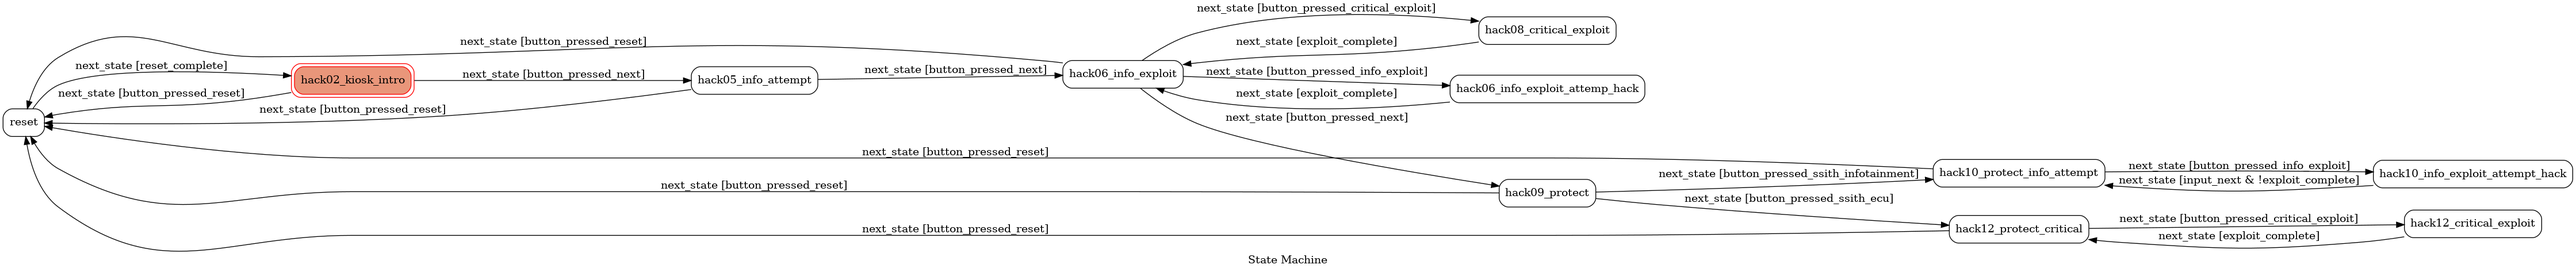
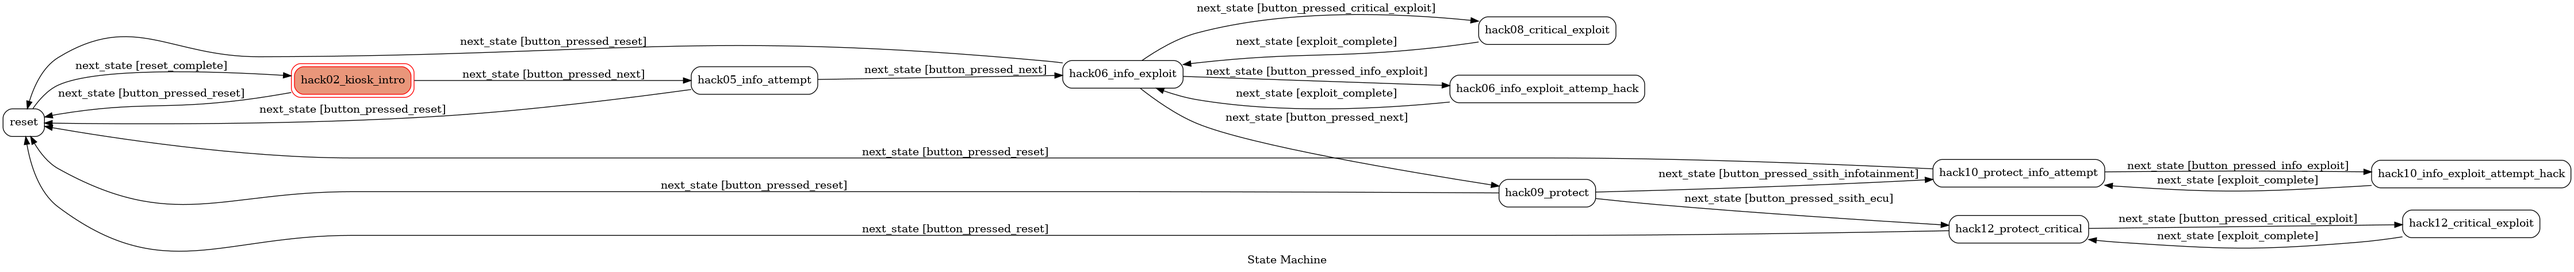
Partial fix

diff --git a/besspin/cyberPhys/ui/hacker-kiosk/src/components/Hack08_CriticalExploit.vue b/besspin/cyberPhys/ui/hacker-kiosk/src/components/Hack08_CriticalExploit.vue
@@ -22,7 +22,9 @@ TODO:
       <button :class="[!transDrive ? 'hack08-trans-btn-active' : '', 'hack08-trans-btn', 'img-btn']" @click="toggleTrans()">
       </button>
 
-      <button v-if="clickCount >= 1" @click="next()" class="hack08-next-btn img-btn"></button>
+      <!--button v-if="clickCount >= 1" @click="next()" class="hack08-next-btn img-btn"></button-->
+      <router-link v-if="clickCount >= 1" class="hack08-next-btn img-btn" to="/hack09_protect" tag="button">
+      </router-link>
   </div>
 </template>
 
@@ -129,11 +131,27 @@ TODO:
         acceleratorNormal: true,
         lkaOn: true,
         transDrive: true,
-        clickCount: 0
+        clickCount: 0,
+        poller: setInterval(() => { this.pollState() }, 500)
       }
     },
     mounted() {
-      // TODO: toggle buttons only when the hack is succesfull
+      ipc.on('zmq-results',(event, q) => {
+        q.forEach(item => {
+          if (item.func == 'critical_exploit' && item.status == 200) {
+            if(item.args == 'brakes') {
+              this.brakeECUOn = item.retval;
+            } else if (item.args == 'throttle') {
+              this.acceleratorNormal = item.retval;
+            } else if (item.args == 'lkas') {
+              this.lkaOn = item.retval;
+            } else if (item.args == 'transmission') {
+              this.transDrive = item.retval;
+            }
+          }
+        });
+      });
+      /*
       var video = document.querySelector("#videoElement");
       if (navigator.mediaDevices.getUserMedia) {
         navigator.mediaDevices.getUserMedia({ video: true })
@@ -144,42 +162,39 @@ TODO:
           console.log("Something went wrong!");
         });
       }
+      */
+
     },
     unmounted() {
       clearInterval(this.poller);
     },
     methods: {
       next() {
-        ipc.send('button-pressed', this.$options.name + '_next', []);
-        this.$router.push({ name: 'hack06_info_exploit' });    
+        ipc.send('button-pressed', 'next', []);
+        this.$router.push({ name: 'hack09_protect' });
       },
       pollState() {
         ipc.send('zmq-poll', []);
       },
       toggleBrakes() {
-        // TODO: toggle buttons only when the hack is succesfull
-        this.brakeECUOn = !this.brakeECUOn;
         this.clickCount++;
         console.log("[click] brakeECUOn = " + this.brakeECUOn);
-        ipc.send('button-pressed', this.$options.name + '_brakeECUOn', this.brakeECUOn);
+        ipc.send('button-pressed', 'critical_exploit', 'brakes');
       },
       toggleAccel() {
-        this.acceleratorNormal = !this.acceleratorNormal;
         this.clickCount++;
         console.log("[click] acceleratorNormal = " + this.acceleratorNormal);
-        ipc.send('button-pressed', this.$options.name + '_acceleratorNormal', this.acceleratorNormal);
+        ipc.send('button-pressed', 'critical_exploit', 'throttle');
       },
       toggleSteering() {
-        this.lkaOn = !this.lkaOn;
         this.clickCount++;
         console.log("[click] lkaOn = " + this.lkaOn);
-        ipc.send('button-pressed', this.$options.name + '_lkaOn', this.lkaOn);
+        ipc.send('button-pressed', 'critical_exploit', 'lkas');
       },
       toggleTrans() {
-        this.transDrive = !this.transDrive;
         this.clickCount++;
         console.log("[click] transDrive = " + this.transDrive);
-        ipc.send('button-pressed', this.$options.name + '_transDrive', this.transDrive);
+        ipc.send('button-pressed', 'critical_exploit', 'transmission');
       }
     }
   };

diff --git a/besspin/cyberPhys/ui/hacker-kiosk/src/components/Hack12_ProtectCritical.vue b/besspin/cyberPhys/ui/hacker-kiosk/src/components/Hack12_ProtectCritical.vue
@@ -9,6 +9,7 @@ TODO:
 <template>
   <div id="hack12">
       <!-- TODO: mirror behavior from Hack8_page so the buttons can change colors -->
+      <!--
       <router-link class="hack12-brake-btn img-btn" to="/hack13_protect_critical_stop" tag="button">
       </router-link>
 
@@ -19,6 +20,23 @@ TODO:
       </router-link>
 
       <router-link class="hack12-trans-btn img-btn" to="/hack13_protect_critical_stop" tag="button">
+      </router-link>
+      -->
+
+      <button :class="[!brakeECUOn ? 'hack08-brakes-btn-active' : '', 'hack12-brake-btn', 'img-btn']" @click="toggleBrakes()">
+      </button>
+
+      <button :class="[!acceleratorNormal ? 'hack08-accel-btn-active' : '', 'hack12-accel-btn', 'img-btn']" @click="toggleAccel()">
+      </button>
+
+      <button :class="[!lkaOn ? 'hack08-steer-btn-active' : '', 'hack12-steering-btn', 'img-btn']" @click="toggleSteering()">
+      </button>
+
+      <button :class="[!transDrive ? 'hack08-trans-btn-active' : '', 'hack12-trans-btn', 'img-btn']" @click="toggleTrans()">
+      </button>
+
+      <!--button v-if="clickCount >= 1" @click="next()" class="hack08-next-btn img-btn"></button-->
+      <router-link v-if="clickCount >= 1" class="hack08-next-btn img-btn" to="/hack13_protect_critical_stop" tag="button">
       </router-link>
 
 
@@ -96,18 +114,63 @@ TODO:
 
 
 <script>
+  const electron = require('electron')
+  const ipc = electron.ipcRenderer;
+
   export default {
     name: 'Hack12_ProtectCritical',
     props: {
     },
     data() {
       return {
-        messages: []
+        brakeECUOn: true,
+        acceleratorNormal: true,
+        lkaOn: true,
+        transDrive: true,
+        poller: setInterval(() => { this.pollState() }, 500)
       }
     },
     mounted() {
+       ipc.on('zmq-results',(event, q) => {
+        q.forEach(item => {
+          if (item.func == 'critical_exploit' && item.status == 200) {
+            if(item.args == 'brakes') {
+              this.brakeECUOn = item.retval;
+            } else if (item.args == 'throttle') {
+              this.acceleratorNormal = item.retval;
+            } else if (item.args == 'lkas') {
+              this.lkaOn = item.retval;
+            } else if (item.args == 'transmission') {
+              this.transDrive = item.retval;
+            }
+          }
+        });
+      });
     },
     methods: {
+      pollState() {
+        ipc.send('zmq-poll', []);
+      },
+      toggleBrakes() {
+        this.clickCount++;
+        console.log("[click] brakeECUOn = " + this.brakeECUOn);
+        ipc.send('button-pressed', 'critical_exploit', 'brakes');
+      },
+      toggleAccel() {
+        this.clickCount++;
+        console.log("[click] acceleratorNormal = " + this.acceleratorNormal);
+        ipc.send('button-pressed', 'critical_exploit', 'throttle');
+      },
+      toggleSteering() {
+        this.clickCount++;
+        console.log("[click] lkaOn = " + this.lkaOn);
+        ipc.send('button-pressed', 'critical_exploit', 'lkas');
+      },
+      toggleTrans() {
+        this.clickCount++;
+        console.log("[click] transDrive = " + this.transDrive);
+        ipc.send('button-pressed', 'critical_exploit', 'transmission');
+      }
     }
   };
 </script>

diff --git a/besspin/cyberPhys/ui/hacker-kiosk/src/components/Hack10_ProtectInfoAttempt.vue b/besspin/cyberPhys/ui/hacker-kiosk/src/components/Hack10_ProtectInfoAttempt.vue
@@ -169,15 +169,16 @@ TODO:
     mounted() {
       ipc.on('zmq-results',(event, q) => {
         q.forEach(item => {
-          // TODO: how to show a hack failure? `status` != 200? Or in `retval`?
-          if(item.func == this.$options.name + '_changeStation' && item.status == 200) {
-            this.stationMessage = "Station set to " + item.retval;
-          } else if (item.func == this.$options.name + '_volumeUp' && item.status == 200) {
-            this.volumeMessage = item.retval;
-          } else if (item.func == this.$options.name + '_volumeDown' && item.status == 200) {
-            this.volumeMessage = item.retval;
-          } else if (item.func == this.$options.name + '_exfil') {
-            this.exfilMessage = item.retval.toString();
+          if (item.func == 'info_exploit' && item.status == 200) {
+            if(item.args == 'changeStation') {
+              this.stationMessage = "Station set to " + item.retval;
+            } else if (item.args == 'volumeUp') {
+              this.volumeMessage = item.retval;
+            } else if (item.args == 'volumeDown') {
+              this.volumeMessage = item.retval;
+            } else if (item.args == 'exfil') {
+              this.exfilMessage = item.retval.toString();
+            }
           }
         });
       });
@@ -186,28 +187,32 @@ TODO:
       clearInterval(this.poller);
     },
     methods: {
-      pollState() {
+pollState() {
         ipc.send('zmq-poll', []);
       },
       exfil() {
         console.log("[click] data Exfil");
         this.clickCount++;
-        ipc.send('button-pressed', this.$options.name + '_exfil', {});
+        ipc.send('button-pressed', 'info_exploit', 'exfil');
       },
       changeStation(which) {
         console.log("[click] change to station ", which)
         this.clickCount++;
-        ipc.send('button-pressed', this.$options.name + '_changeStation', which);
+        ipc.send('button-pressed', 'info_exploit', 'changeStation_' + which);
       },
       volumeUp() {
         console.log("[click] volumeUp")
         this.clickCount++;
-        ipc.send('button-pressed', this.$options.name + '_volumeUp',{});
+        ipc.send('button-pressed', 'info_exploit','volumeUp');
       },
       volumeDown() {
         console.log("[click] volumeDown");
         this.clickCount++;
-        ipc.send('button-pressed', this.$options.name + '_volumeDown',{});
+        ipc.send('button-pressed', 'info_exploit','volumeDown');
+      },
+      next() {
+        ipc.send('button-pressed', 'next', {});
+        this.$router.push({ name: 'hack07_critical_attempt' });
       }
     }
   };

diff --git a/besspin/cyberPhys/ui/hacker-kiosk/src/components/Hack06_InfoExploit.vue b/besspin/cyberPhys/ui/hacker-kiosk/src/components/Hack06_InfoExploit.vue
@@ -29,7 +29,6 @@ TODO:
 
       <router-link v-if="clickCount >= 1" class="hack06-next-btn img-btn" to="/hack07_critical_attempt" tag="button">
       </router-link>
-
   </div>
 </template>
 
@@ -177,14 +176,16 @@ TODO:
     mounted() {
       ipc.on('zmq-results',(event, q) => {
         q.forEach(item => {
-          if(item.func == this.$options.name + '_changeStation' && item.status == 200) {
-            this.stationMessage = "Station set to " + item.retval;
-          } else if (item.func == this.$options.name + '_volumeUp' && item.status == 200) {
-            this.volumeMessage = item.retval;
-          } else if (item.func == this.$options.name + '_volumeDown' && item.status == 200) {
-            this.volumeMessage = item.retval;
-          } else if (item.func == this.$options.name + '_exfil') {
-            this.exfilMessage = item.retval.toString();
+          if (item.func == 'info_exploit' && item.status == 200) {
+            if(item.args == 'changeStation') {
+              this.stationMessage = "Station set to " + item.retval;
+            } else if (item.args == 'volumeUp') {
+              this.volumeMessage = item.retval;
+            } else if (item.args == 'volumeDown') {
+              this.volumeMessage = item.retval;
+            } else if (item.args == 'exfil') {
+              this.exfilMessage = item.retval;
+            }
           }
         });
       });
@@ -199,22 +200,22 @@ TODO:
       exfil() {
         console.log("[click] data Exfil");
         this.clickCount++;
-        ipc.send('button-pressed', this.$options.name + '_exfil', {});
+        ipc.send('button-pressed', 'info_exploit', 'exfil');
       },
       changeStation(which) {
         console.log("[click] change to station ", which)
         this.clickCount++;
-        ipc.send('button-pressed', this.$options.name + '_changeStation', which);
+        ipc.send('button-pressed', 'info_exploit', 'changeStation_' + which);
       },
       volumeUp() {
         console.log("[click] volumeUp")
         this.clickCount++;
-        ipc.send('button-pressed', this.$options.name + '_volumeUp',{});
+        ipc.send('button-pressed', 'info_exploit','volumeUp');
       },
       volumeDown() {
         console.log("[click] volumeDown");
         this.clickCount++;
-        ipc.send('button-pressed', this.$options.name + '_volumeDown',{});
+        ipc.send('button-pressed', 'info_exploit','volumeDown');
       }
     }
   };

diff --git a/besspin/cyberPhys/ui/hacker-kiosk/src/components/Hack09_Protect.vue b/besspin/cyberPhys/ui/hacker-kiosk/src/components/Hack09_Protect.vue
@@ -58,22 +58,23 @@ ToDO:
     name: 'Hack09_Protect',
     props: {
     },
-    protectCrit() {
-      ipc.send('button-pressed', this.$options.name + '_protect_critical', []);
-      this.$router.push({ name: 'hack12_protect_critical' });    
-    },
-    protectInfo() {
-      ipc.send('button-pressed', this.$options.name + '_protect_info', []);
-      this.$router.push({ name: 'hack10_protect_info_attempt' });    
-    },
     data() {
       return {
-        messages: []
+        messages: [],
+        poller: setInterval(() => { this.pollState() }, 500)
       }
     },
     mounted() {
     },
     methods: {
+    protectCrit() {
+      ipc.send('button-pressed', 'ssith_ecu', []);
+      this.$router.push({ name: 'hack12_protect_critical' });
+    },
+    protectInfo() {
+      ipc.send('button-pressed', 'ssith_infotainment', []);
+      this.$router.push({ name: 'hack10_protect_info_attempt' });
+    },
     }
   };
 </script>

diff --git a/besspin/cyberPhys/ui/hacker-kiosk/src/components/Hack05_InfoAttempt.vue b/besspin/cyberPhys/ui/hacker-kiosk/src/components/Hack05_InfoAttempt.vue
@@ -54,7 +54,7 @@
       ipc.on('zmq-results',(event, q) => {
         q.forEach(item => {
           console.log("item", item);
-          if(item.func == this.$options.name && item.status == 200) {
+          if(item.func == 'next' && item.status == 200) {
             vm.$router.push({ name: 'hack06_info_exploit' });
           }
         });
@@ -69,7 +69,7 @@
         ipc.send('zmq-poll', []);
       },
       hackInfotainment() {
-        ipc.send('button-pressed', this.$options.name, {});
+        ipc.send('button-pressed', 'next', {});
         console.log('button-pressed', this.$options.name,{});
       }
     }

diff --git a/besspin/cyberPhys/ui/hacker-kiosk/src/components/Hack04_Access.vue b/besspin/cyberPhys/ui/hacker-kiosk/src/components/Hack04_Access.vue
@@ -52,7 +52,7 @@ TODO:
     },
     methods: {
       next() {
-        ipc.send('button-pressed', this.$options.name, {});
+        ipc.send('button-pressed', 'next', {});
         this.$router.push({ name: 'hack05_info_attempt' });
       }
     }

diff --git a/besspin/cyberPhys/cyberphyslib/cyberphyslib/kiosk/director.py b/besspin/cyberPhys/cyberphyslib/cyberphyslib/kiosk/director.py
@@ -62,7 +62,7 @@ class HackerKiosk:
         {'transition': ('hack06_info_exploit', 'hack09_protect'), 'conditions': 'button_pressed_next'},
         {'transition': ('hack09_protect', 'hack10_protect_info_attempt'), 'conditions': 'button_pressed_ssith_infotainment'},
         {'transition': ('hack10_protect_info_attempt', 'hack10_info_exploit_attempt_hack'), 'conditions': 'button_pressed_info_exploit'},
-        {'transition': ('hack10_info_exploit_attempt_hack', 'hack10_protect_info_attempt'), 'conditions': 'input_next', 'unless': 'exploit_complete'},
+        {'transition': ('hack10_info_exploit_attempt_hack', 'hack10_protect_info_attempt'), 'conditions': 'exploit_complete'},
         {'transition': ('hack09_protect', 'hack12_protect_critical'), 'conditions': 'button_pressed_ssith_ecu'},
         {'transition': ('hack12_protect_critical', 'hack12_critical_exploit'), 'conditions': 'button_pressed_critical_exploit'},
         {'transition': ('hack12_critical_exploit', 'hack12_protect_critical'), 'conditions': 'exploit_complete'},
@@ -106,6 +106,16 @@ class HackerKiosk:
             if self.socket in msgs and msgs[self.socket] == zmq.POLLIN:
                 req = self.socket.recv_json()
                 print(f"<{self.__class__.__name__}> Got request: {req}")
+                func = req['func']
+                args = req['args']
+                resp = {}
+                resp['args'] = args
+                resp['func'] = func
+                resp['retval'] = {}
+                resp['status'] = 200 # OK
+
+                print(f"<{self.__class__.__name__}> Responding with {resp}")
+                self.socket.send_json(resp)
 
 
     def stop(self):
